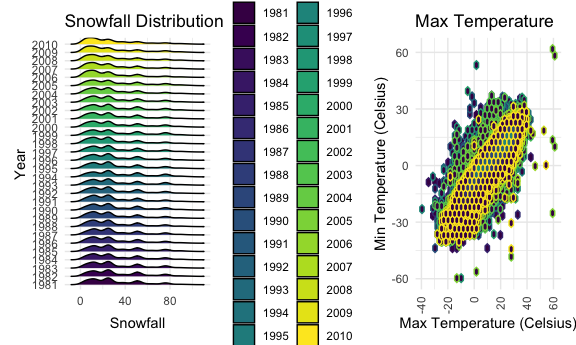
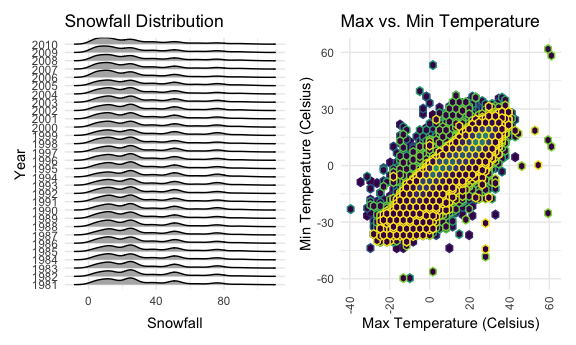
Complete homework!

diff --git a/HW3_cm3936.md b/HW3_cm3936.md
@@ -32,30 +32,15 @@ separate(date, into = c("year", "month", "day"), sep="-", extra = "merge", fill 
 ```
 
 ``` r
+   most_common_snow=
    ny_noaa_clean|>
   group_by(snow) |> summarize(count = n(), na.rm=TRUE) |> arrange(desc(count)) 
 ```
 
-    ## # A tibble: 282 × 3
-    ##     snow   count na.rm
-    ##    <dbl>   <int> <lgl>
-    ##  1     0 2008508 TRUE 
-    ##  2    NA  381221 TRUE 
-    ##  3    25   31022 TRUE 
-    ##  4    13   23095 TRUE 
-    ##  5    51   18274 TRUE 
-    ##  6    76   10173 TRUE 
-    ##  7     8    9962 TRUE 
-    ##  8     5    9748 TRUE 
-    ##  9    38    9197 TRUE 
-    ## 10     3    8790 TRUE 
-    ## # ℹ 272 more rows
-
-The most common observed value for snow is function (x, …, wt = NULL,
-sort = FALSE, name = NULL) mm. This could be due to many reasons,
-including because the half of the stations report precipitation only and
-the record length of the stations are not consistent which might result
-in some winter months being excluded.
+The most common observed value for snow is 0 mm. This could be due to
+many reasons, including because the half of the stations report
+precipitation only and the record length of the stations are not
+consistent which might result in some winter months being excluded.
 
 ``` r
 t_max_july =
@@ -132,7 +117,7 @@ tmaxvtmin_plot =
    ggplot(aes(x= tmax, y=tmin, color=id)) +
                   geom_hex() +
             labs(
-               title= "Max Temperature", 
+               title= "Max vs. Min Temperature", 
                x= "Max Temperature (Celsius)", 
                y= "Min Temperature (Celsius)") +
     theme(axis.text.x = element_text(angle = 90, vjust = 0.5, hjust = 1), legend.position = "none")
@@ -142,7 +127,7 @@ tmaxvtmin_plot =
 snow_plot =
     ny_noaa_clean |> 
    filter(snow > 0 & snow < 100) |>
-ggplot(aes(x = snow, y = year, fill = year)) + 
+ggplot(aes(x = snow, y = year)) + 
   geom_density_ridges(scale=0.85, color = "black") +
    labs(
       title = "Snowfall Distribution",
@@ -224,7 +209,13 @@ ggplot(aes(x = age, y = education, fill =sex)) +
       title = "Age Distributions of Men and Women by Education Levels",
       x = "Age",
       y = "Education Level")
+
+menvwomen_plot
 ```
+
+    ## Picking joint bandwidth of 8
+
+<img src="HW3_cm3936_files/figure-gfm/distribution plot-1.png" width="90%" />
 
 For participants with an education level of less than high school, there
 is a slightly bimodal age distribution for men, and a unimodal one for
@@ -246,10 +237,16 @@ activity_plots=
    labs(
       title = "Activity Levels Across Age for Males and Females by Education Level",
       x = "Age",
-      y = "Total Activity")+
+      y = "Total Activity (MMS)")+
       theme(axis.text.x = element_text(angle = 90, vjust = 0.5, hjust = 1))+
    facet_wrap(~education)
+
+activity_plots
 ```
+
+    ## `geom_smooth()` using method = 'loess' and formula = 'y ~ x'
+
+<img src="HW3_cm3936_files/figure-gfm/activity plot-1.png" width="90%" />
 
 This plot demonstrates higher levels of activity in younger females with
 a high school level education compared to males. Additionally, for
@@ -282,9 +279,235 @@ daily_plots
     ## `geom_smooth()` using method = 'gam' and formula = 'y ~ s(x, bs = "cs")'
 
 <img src="HW3_cm3936_files/figure-gfm/daily activity-1.png" width="90%" />
+
 Based on the created plots, most people have higher levels of activity
 in the middle minutes of the day which makes sense becasue the early
 minutes are midnight and beyond. There are no major differences between
 education groups and for most except, the group with less than a high
 school level of education, females have higher levels of activity
 throughout the day.
+
+## Problem 3: Citi Bikes
+
+``` r
+citibikes_jan2020 = read_csv("./citibike/Jan 2020 Citi.csv",
+                       na = c(".", "NA", ""))|>
+   janitor::clean_names()|>
+   mutate(
+      year="2020",
+      month="January")
+```
+
+    ## Rows: 12420 Columns: 7
+    ## ── Column specification ────────────────────────────────────────────────────────
+    ## Delimiter: ","
+    ## chr (6): ride_id, rideable_type, weekdays, start_station_name, end_station_n...
+    ## dbl (1): duration
+    ## 
+    ## ℹ Use `spec()` to retrieve the full column specification for this data.
+    ## ℹ Specify the column types or set `show_col_types = FALSE` to quiet this message.
+
+``` r
+citibikes_july2020 = read_csv("./citibike/July 2020 Citi.csv",
+                       na = c(".", "NA", ""))|>
+   janitor::clean_names()|>
+   mutate(
+      year="2020",
+      month="July")
+```
+
+    ## Rows: 21048 Columns: 7
+    ## ── Column specification ────────────────────────────────────────────────────────
+    ## Delimiter: ","
+    ## chr (6): ride_id, rideable_type, weekdays, start_station_name, end_station_n...
+    ## dbl (1): duration
+    ## 
+    ## ℹ Use `spec()` to retrieve the full column specification for this data.
+    ## ℹ Specify the column types or set `show_col_types = FALSE` to quiet this message.
+
+``` r
+citibikes_jan2024 = read_csv("./citibike/Jan 2024 Citi.csv",
+                       na = c(".", "NA", ""))|>
+   janitor::clean_names()|>
+   mutate(
+      year="2024",
+      month="January")
+```
+
+    ## Rows: 18861 Columns: 7
+    ## ── Column specification ────────────────────────────────────────────────────────
+    ## Delimiter: ","
+    ## chr (6): ride_id, rideable_type, weekdays, start_station_name, end_station_n...
+    ## dbl (1): duration
+    ## 
+    ## ℹ Use `spec()` to retrieve the full column specification for this data.
+    ## ℹ Specify the column types or set `show_col_types = FALSE` to quiet this message.
+
+``` r
+citibikes_july_2024 = read_csv("./citibike/July 2024 Citi.csv",
+                       na = c(".", "NA", ""))|>
+   janitor::clean_names()|>
+   mutate(
+      year="2024",
+      month="July")
+```
+
+    ## Rows: 47156 Columns: 7
+    ## ── Column specification ────────────────────────────────────────────────────────
+    ## Delimiter: ","
+    ## chr (6): ride_id, rideable_type, weekdays, start_station_name, end_station_n...
+    ## dbl (1): duration
+    ## 
+    ## ℹ Use `spec()` to retrieve the full column specification for this data.
+    ## ℹ Specify the column types or set `show_col_types = FALSE` to quiet this message.
+
+``` r
+citibike_all=
+   bind_rows(citibikes_jan2020, citibikes_jan2024, citibikes_july_2024,citibikes_july2020)
+```
+
+Total Rides by Membership
+
+``` r
+citibike_all |>
+   drop_na(member_casual)|>
+  group_by(member_casual, year, month) |>
+  summarize(count = n())|>
+   pivot_wider(
+       names_from = member_casual,
+       values_from = count)  |>
+   knitr::kable(caption= "Total Cases by Membership and Year and Month Combination")
+```
+
+    ## `summarise()` has grouped output by 'member_casual', 'year'. You can override
+    ## using the `.groups` argument.
+
+| year | month   | casual | member |
+|:-----|:--------|-------:|-------:|
+| 2020 | January |    984 |  11436 |
+| 2020 | July    |   5637 |  15411 |
+| 2024 | January |   2108 |  16753 |
+| 2024 | July    |  10894 |  36262 |
+
+Total Cases by Membership and Year and Month Combination
+
+Based on the above table, we can see that in 2020 most of the rides were
+from members. However, in 2024, there was a higher proportion of casual
+riders but most of the riders were members.
+
+``` r
+citibike_all |>
+   drop_na(start_station_name)|>
+   filter(
+      month=="July" & year=="2024")|>
+  group_by(start_station_name) |>
+  summarize(count = n())|>
+   arrange(desc(count)) |>  
+  slice_head(n = 5) |>     
+   knitr::kable(caption= "Most Popular Starting Station in July 2024")
+```
+
+| start_station_name       | count |
+|:-------------------------|------:|
+| Pier 61 at Chelsea Piers |   163 |
+| University Pl & E 14 St  |   155 |
+| W 21 St & 6 Ave          |   152 |
+| West St & Chambers St    |   150 |
+| W 31 St & 7 Ave          |   146 |
+
+Most Popular Starting Station in July 2024
+
+``` r
+median_durationplot_month =
+   citibike_all |>
+   group_by(year, month, weekdays) |>
+ summarize(median_duration=median(as.numeric(duration),.groups="drop"))|>
+   ggplot(aes(x = month, y = median_duration)) +
+   geom_bar(stat = "identity", position = "dodge") +
+    labs(
+       title = "Impact of Month on Median Duration",
+        x = "Month",
+        y = "Median Duration")+
+      theme(axis.text.x = element_text(angle = 90, vjust = 0.5, hjust = 1))
+```
+
+    ## `summarise()` has grouped output by 'year', 'month'. You can override using the
+    ## `.groups` argument.
+
+``` r
+median_durationplot_day =
+   citibike_all |>
+   group_by(year, month, weekdays) |>
+ summarize(median_duration=median(as.numeric(duration),.groups="drop"))|>
+   ggplot(aes(x = weekdays, y = median_duration)) +
+   geom_bar(stat = "identity", position = "dodge") +
+    labs(
+       title = "Impact of Day of the Week on Median Duration",
+        x = "Weekday",
+        y = "Median Duration")+
+      theme(axis.text.x = element_text(angle = 90, vjust = 0.5, hjust = 1))
+```
+
+    ## `summarise()` has grouped output by 'year', 'month'. You can override using the
+    ## `.groups` argument.
+
+``` r
+median_durationplot_year =
+   citibike_all |>
+   group_by(year, month, weekdays) |>
+ summarize(median_duration=median(as.numeric(duration),.groups="drop"))|>
+   ggplot(aes(x = year, y = median_duration)) +
+   geom_bar(stat = "identity", position = "dodge") +
+    labs(
+       title = "Impact of Month on Median Duration",
+        x = "Year",
+        y = "Median Duration")+
+      theme(axis.text.x = element_text(angle = 90, vjust = 0.5, hjust = 1))
+```
+
+    ## `summarise()` has grouped output by 'year', 'month'. You can override using the
+    ## `.groups` argument.
+
+``` r
+median_durationplot_month + median_durationplot_day + median_durationplot_year
+```
+
+<img src="HW3_cm3936_files/figure-gfm/impact of week day, month and year on median ride duration-1.png" width="90%" />
+
+Based on this figure, it seems the Month and the years have the largest
+impact on the median ride duration. The median ride duration in January
+was much lower than in July. The median ride duration was higher in 2020
+than in 2024 but it was not a drastic visual difference. The yearly
+difference might be explained by the COVID-19 pandemic, where people
+preferred bikes over public transportation. The differences between the
+two months may be explained by weather and users preferring to ride
+bikes in the summer instead of the winter.
+
+``` r
+duration_distribution =
+    citibike_all |> 
+ filter(year== 2024)|>
+ggplot(aes(x = month, y = duration, fill = rideable_type)) + 
+  geom_boxplot() +
+   facet_wrap(~ member_casual)+
+   labs(
+      title = "Ride Duration Distribution by Month in 2024",
+      x = "Month",
+      y = "Ride Duration") +
+      theme_minimal()
+
+duration_distribution
+```
+
+<img src="HW3_cm3936_files/figure-gfm/distribution of ride duration by month, membership, bike type-1.png" width="90%" />
+Based on this visualization, we can see that the distribution of ride
+duration among casual users that used a classic bike is larger than
+those that used electric bikes in both months. The distribution of ride
+duration among members is smaller with no visually significant
+differences between rides done on classic bikes as opposed to electric
+ones in both months. The larger duration distribution seen among casual
+users that used a classic bike makes sense because casual users a random
+sample of bikers with varying levels of biking speed. The smaller
+duration distribution closer to shorter rides among the members makes
+sense because this pool of rides might be from a sample pool that is
+biased toward regular bikers.
